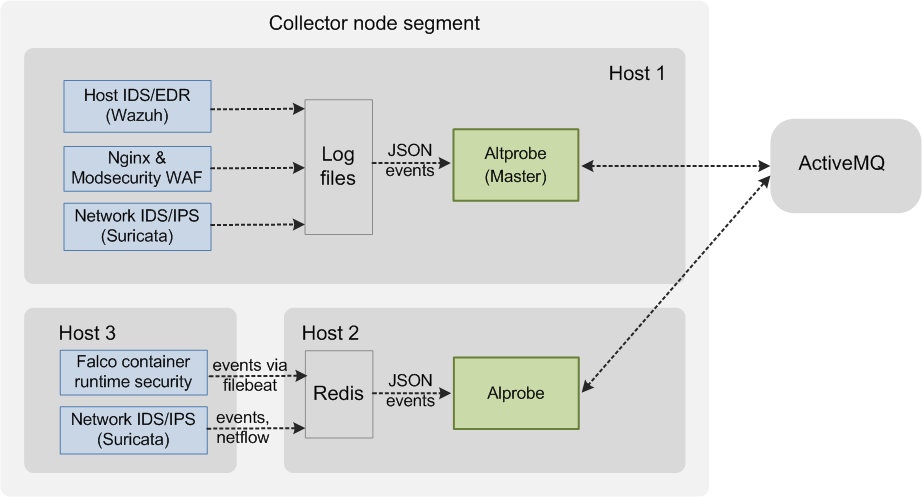
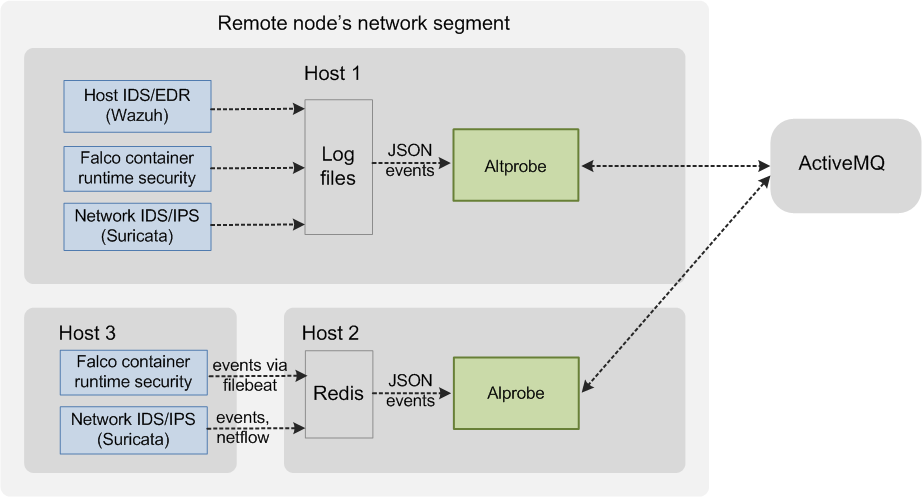
update after del several elements

diff --git a/doc/searchindex.js b/doc/searchindex.js
@@ -1,1 +1,1 @@
-Search.setIndex({docnames:["index","pages/architecture","pages/config_altprobe","pages/config_cnode","pages/install_altprobe","pages/install_cnode","pages/integration","pages/notices"],envversion:{"sphinx.domains.c":2,"sphinx.domains.changeset":1,"sphinx.domains.citation":1,"sphinx.domains.cpp":3,"sphinx.domains.index":1,"sphinx.domains.javascript":2,"sphinx.domains.math":2,"sphinx.domains.python":2,"sphinx.domains.rst":2,"sphinx.domains.std":1,sphinx:56},filenames:["index.rst","pages\\architecture.rst","pages\\config_altprobe.rst","pages\\config_cnode.rst","pages\\install_altprobe.rst","pages\\install_cnode.rst","pages\\integration.rst","pages\\notices.rst"],objects:{},objnames:{},objtypes:{},terms:{"00z":6,"02d2a1d8b353ba2bf59ca381f1836ebd":6,"09t00":6,"09t20":6,"10gb":4,"11z":6,"168":6,"1797":2,"19023":2,"192":6,"1a53f4c9c6d3":6,"200":6,"2000":7,"2004":7,"2005":7,"2006":7,"2020":6,"20gb":5,"2gb":4,"3532c56d":6,"3de":7,"443":5,"4848":5,"48be":6,"4gb":5,"55715":[2,3],"5715":[2,3],"61617":5,"8080":6,"8181":6,"8443":5,"8gb":5,"default":[3,5],"new":[2,3],"return":6,"true":[2,3],"var":[2,3,4],AES:7,AND:7,ARE:7,BUT:7,DNS:5,FOR:7,For:[1,2,3,5,6],IDS:[0,1,2,4,6],NOT:7,SUCH:7,THE:7,TLS:1,The:[1,2,3,5,7],Their:7,USE:7,WITH:7,_falco_log:2,_modsec_log:2,_suri_log:2,_wazuh_log:2,a2ad:6,about:6,abov:[2,3,7],access:[1,5],accord:6,action:[2,3,7],activemq:[1,3,5,7],adapt:6,add:6,added:[2,3],address:[5,6],admin:[3,5,6],advis:7,after:[4,5,6],agent:[1,2,3],aggreg:[2,3],agreement:5,alert:[0,2,3,4],alertflex:[1,2,3,4,5],alertlex:5,all:7,allianc:0,allow:[1,2],alon:1,also:[2,3,5],altpob:2,altprob:[0,1,3,5],altprobe_cr:2,altprobe_hid:2,altprobe_nid:2,altprobe_waf:2,amazon:1,amount:3,analysi:1,analysisd:2,ani:7,apach:7,api:6,appli:[2,3],applianc:[1,7],applic:[1,3,5],architectur:0,aris:7,associ:7,auth:6,author:7,avail:[1,2,6,7],base:1,basi:1,been:7,befor:[4,5],below:[1,2,3,6,7],between:[1,5],binari:[5,7],blacklist:[2,3],blob:7,blowfish:7,bounci:7,bouncycastl:7,broker:[1,4],browser:5,built:1,busi:7,can:[1,2,3,5],castl:7,cat:[2,3,4],categori:[2,3],caus:7,cento:[1,4,5],central:[0,2],certain:6,certif:5,chang:[2,3],charg:7,check:[3,4,5,6],checkbox:[5,6],chmod:[4,5],christian:7,cipher:7,claim:7,classif:[2,3],clone:[4,5],cloud:1,cluster:1,cnode:[0,4],code:[2,6,7],collect:1,collector:[0,2,3,4,5],com:[4,5,7],come:[2,3],command:0,commun:7,compani:1,compon:[1,5],comput:[1,4,5,7],condit:7,config:[0,2],configur:[0,1,5,6],confirm:5,connect:[1,7],consequenti:7,consist:[1,2,3],consol:[1,2,3,4,5,6,7],contain:1,content:0,continu:1,contract:7,contributor:7,control:[1,6,7],copi:[4,7],copyright:0,could:1,creat:7,crs:2,cryptographi:7,cti:1,ctrl:6,curl:6,cybersecur:0,damag:7,dashboard:4,data:[2,7],deal:7,dedic:[2,3],depart:7,dequeu:3,deriv:7,desc:[2,3],describ:[2,3],descript:[2,3],design:0,differ:[1,2,3],direct:7,directli:1,directori:[2,3,4],disclaim:7,disk:[4,5],distribut:[1,7],document:7,domain:1,download:[4,5],draw:1,dure:[2,3,5,6],dynam:[2,3],ea72:6,easili:1,ecosystem:0,edit:[6,7],edr:1,elast:7,elasticsearch:6,elasticstack:0,enabl:[0,5],end:[1,5],endors:7,enqueu:3,env:[3,4,5],env_exampl:4,env_loc:4,environ:1,equal:3,error:[3,4],etc:[2,3,4,5,6],eth:7,ethz:7,eula:5,even:7,event:[1,2,3,6,7],everi:[2,3],exampl:[1,2,3,4,5,6],example_env:5,exchang:1,execd:2,execut:[5,6],exemplari:7,expand:1,express:7,falco:2,falco_conf:2,falco_loc:2,falco_log:2,falco_redi:2,falco_rul:2,feder:7,feed:5,file:[1,2,3,4,5,6,7],fill:[4,5],filter:0,finish:5,firewal:1,fit:7,five:1,fix:6,flghost:[2,3],folder:[2,3],follow:7,form:[1,2,3,6,7],format:[2,3,6],free:7,from:[0,1,2,3,4,7],furnish:7,ganym:7,gelf:6,geolite2:7,get:[4,5,6],git:[4,5],github:[4,5,7],give:1,glassfish:1,good:7,grafana:0,grant:7,gray_list:[2,3],graylist:[2,3],graylog:0,grep:[3,4],hard:[4,5],has:6,hash:6,have:7,herebi:7,hid:[2,3],high:[0,5],holder:7,host:[1,2,4,5,6],hostnam:5,how:[3,4,5],howev:7,http:[4,5,6,7],hybrid:1,ident:6,identity_class:6,implement:[1,7],impli:7,in_period:[2,3],incident:7,includ:[1,2,7],indef:[2,3],index:6,indirect:7,inf:7,info:[4,6],inform:6,infrastructur:1,input:6,insid:1,instal:[0,1,7],install_ubuntu:[4,5],institut:7,integr:[0,1,5],interact:[5,6],interfac:6,interrupt:7,interv:6,ioc:5,isn:2,its:7,java:[1,7],job_nam:6,json:[2,3],kibana:6,kind:7,known:1,land:5,legion:7,less:[4,5],level0:[2,3],level1:[2,3],level2:[2,3],level:[0,2,3],liabil:7,liabl:7,lib:2,licens:[5,7],limit:7,linux:[1,5,6],list:7,load:[2,3],local:2,locat:[2,3],log:[1,2,3,4,6],logcollector:2,logic:1,login:[4,5],logstash:7,loss:7,low:0,machin:[1,4,5],mai:7,maild:2,main:[5,6],make:1,manag:[0,1,2,5,6,7],mani:1,master:[1,7],match:[2,3],materi:7,maxmind:7,md5:6,memori:[4,5],menu:5,merchant:7,merg:7,messag:[1,3],met:7,metric:0,metrics_path:6,micro:1,microservic:1,minimum:[1,4,5],misp:[5,7],model:1,modif:[2,3,7],modifi:[2,3,7],modsec:2,modsec_conf:2,modsec_loc:2,modsec_log:2,modsec_redi:2,modsec_rul:2,modsecur:2,modulesd:2,monitor:1,monitord:2,multi:1,must:7,mysql:[1,7],name:[6,7],namespac:1,need:[4,5],neglig:7,neither:7,netflow:0,network:1,new_categori:[2,3],new_descript:[2,3],new_ev:[2,3],new_sever:[2,3],new_sourc:[2,3],new_typ:[2,3],next:[2,3,5],nginx:[2,7],node:[0,2,3],noninfring:7,nor:7,note:6,notic:0,now:5,object:6,obtain:7,one:1,open:[0,1,2,3,4,5],opendistro:0,oper:[2,3],org:7,ossec:2,other:[1,7],otherwis:7,out:7,outsid:1,owasp:2,owner:7,packag:7,page:5,panel:[3,5],paragraph:5,paramet:[2,4,5,6],part:[2,3],parti:1,particular:7,password:[3,5,6],pattern:6,payara:[1,5,6,7],pem:4,perform:[5,6],permiss:7,permit:7,person:7,ping:6,place:1,plan:4,plattner:7,pleas:[4,5],polici:0,port:[5,6],portion:7,possibl:7,post:[0,4],premis:1,present:[4,6],prior:7,procedur:4,process:2,procur:7,product:7,profil:[2,3],profit:7,project:[1,4,5,6,7],prometheu:0,promot:7,protocol:1,provid:[5,7],pseudo:6,publish:7,purpos:7,python:6,queue:3,rais:6,reachabl:5,read:[1,2,5],readi:5,real:1,reboot:[4,5,6],receiv:[0,1],recommend:5,record:6,redi:1,redistribut:7,ref:5,releas:7,reload:3,remot:[2,5],reproduc:[2,3,7],request:6,requir:[0,3,6],reserv:7,respons:[2,3],rest:6,restart:[2,5],restrict:7,retain:7,right:7,root:[2,4],rule:[0,2],ruleset:2,run:2,runtim:1,scale:1,scheme:1,scienc:7,scope:5,script:7,section:[4,5],secur:[0,1],see:[1,4,5],segment:1,select:[4,5,6],sell:7,send:0,sensor:[0,1],separ:1,server:[1,5,6],servic:[5,6,7],set:[3,5,6],sever:[1,2,3,6],shall:7,shifter:0,should:[3,4,5],shown:7,singl:1,slightli:7,soar:1,softwar:[1,7],solut:[1,5],sourc:[1,7],special:7,specif:[4,5,7],sql:6,ssh:[5,7],ssl:[1,5],stack:1,stand:1,start:[2,3,4,5,6],state:7,static_config:6,statu:[2,4,6],stix:0,stop:[2,6],storag:1,store:[2,3],stream:1,strict:7,subject:7,sublicens:7,substanti:7,substitut:7,support:1,suri_conf:2,suri_loc:2,suri_log:2,suri_redi:2,suri_rul:2,suricata:[2,6],swiss:7,syscheckd:2,syslog:[3,4],system:[2,3,4,5,6],taken:7,target:6,tcp:5,technolog:[1,7],test:[4,5],than:[4,5],theori:7,thi:[4,5,7],third:1,threshold:[2,3],time:[1,6],togeth:1,tort:7,translat:6,transmit:6,troubleshoot:[0,5],txt:7,type:[5,6],ubuntu:[1,4,5],udp:[5,6],under:[1,4,5],usag:2,use:[1,4,5,7],used:[1,7],user:[3,5],usernam:6,using:[1,6],usr:2,version:[1,2,3,4,5],via:[2,3,5,6],view:6,virtual:[1,4,5],visibl:1,wai:7,want:6,warranti:7,wazuh:[2,3,7],wazuh_conf:2,wazuh_loc:2,wazuh_log:2,wazuh_redi:2,wazuh_rul:2,web:[1,2,3,5,6],well:1,what:7,where:[1,6],whether:7,which:[1,4],whitelist:[2,3],whom:7,without:7,work:1,worker:7,written:7,www:7,x_org_alertflex:6,xxxxxxx:6,xxxxxxxx:6,yaml:2,yml:6,you:[4,5,6],your:6,zurich:7},titles:["Welcome to Alertflex\u2019s documentation!","Architecture","Configuration of Altprobe","Configuration of Cnode","Installation of Altprobe","Installation of Cnode","Integrations","Copyright notices"],titleterms:{IDS:3,alert:6,alertflex:[0,6],allianc:6,altprob:[2,4],architectur:1,central:[1,3],cnode:[3,5],collector:1,command:2,config:3,configur:[2,3],copyright:7,cybersecur:6,design:1,document:0,ecosystem:6,elasticstack:6,enabl:6,filter:[2,3],from:6,grafana:6,graylog:6,high:1,instal:[4,5],integr:6,level:1,low:1,manag:3,metric:6,netflow:6,node:1,notic:7,open:6,opendistro:6,polici:[2,3],post:5,prometheu:6,receiv:6,requir:[4,5],rule:3,secur:2,send:6,sensor:2,shifter:6,stix:6,troubleshoot:3,welcom:0}})
+Search.setIndex({docnames:["index","pages/architecture","pages/config_altprobe","pages/config_cnode","pages/install_altprobe","pages/install_cnode","pages/integration","pages/notices"],envversion:{"sphinx.domains.c":2,"sphinx.domains.changeset":1,"sphinx.domains.citation":1,"sphinx.domains.cpp":3,"sphinx.domains.index":1,"sphinx.domains.javascript":2,"sphinx.domains.math":2,"sphinx.domains.python":2,"sphinx.domains.rst":2,"sphinx.domains.std":1,sphinx:56},filenames:["index.rst","pages\\architecture.rst","pages\\config_altprobe.rst","pages\\config_cnode.rst","pages\\install_altprobe.rst","pages\\install_cnode.rst","pages\\integration.rst","pages\\notices.rst"],objects:{},objnames:{},objtypes:{},terms:{"00z":6,"02d2a1d8b353ba2bf59ca381f1836ebd":6,"09t00":6,"09t20":6,"10gb":4,"11z":6,"168":6,"1797":2,"19023":2,"192":6,"1a53f4c9c6d3":6,"200":6,"2000":7,"2004":7,"2005":7,"2006":7,"2020":6,"20gb":5,"2gb":4,"3532c56d":6,"3de":7,"443":5,"4848":5,"48be":6,"4gb":5,"55715":[2,3],"5715":[2,3],"61617":5,"8080":6,"8181":6,"8443":5,"8gb":5,"default":[3,5],"new":[2,3],"return":6,"true":[2,3],"var":[2,3,4],AES:7,AND:7,ARE:7,BUT:7,DNS:5,FOR:7,For:[1,2,3,5,6],IDS:[0,1,2,4,6],NOT:7,SUCH:7,THE:7,TLS:1,The:[1,2,3,5,7],Their:7,USE:7,WITH:7,_falco_log:2,_suri_log:2,_wazuh_log:2,a2ad:6,about:6,abov:[2,3,7],access:[1,5],accord:6,action:[2,3,7],activemq:[1,3,5,7],adapt:6,add:6,added:[2,3],address:5,admin:[3,5,6],advis:7,after:[4,5,6],agent:[1,2,3],aggreg:[2,3],agreement:5,alert:[0,2,3,4],alertflex:[1,2,3,4,5],alertlex:5,all:7,allianc:0,allow:[1,2],alon:1,also:[2,3,5],altpob:2,altprob:[0,1,3,5],altprobe_cr:2,altprobe_hid:2,altprobe_nid:2,amazon:1,amount:3,analysi:1,analysisd:2,ani:7,apach:7,api:6,appli:[2,3],applianc:[1,7],applic:[1,3,5],architectur:0,aris:7,associ:7,auth:6,author:7,avail:[1,2,6,7],base:1,basi:1,been:7,befor:[4,5],below:[1,2,3,6,7],between:[1,5],binari:[5,7],blacklist:[2,3],blob:7,blowfish:7,bounci:7,bouncycastl:7,broker:[1,4],browser:5,built:1,busi:7,can:[1,2,3,5],castl:7,cat:[2,3,4],categori:[2,3],caus:7,cento:[1,4,5],central:[0,2],certain:6,certif:5,chang:[2,3],charg:7,check:[3,4,5,6],checkbox:[5,6],chmod:[4,5],christian:7,cipher:7,claim:7,classif:[2,3],clone:[4,5],cloud:1,cluster:1,cnode:[0,4],code:[2,6,7],collect:1,collector:[0,2,3,4,5],com:[4,5,7],come:[2,3],command:0,commun:7,compani:1,compon:[1,5],comput:[1,4,5,7],condit:7,config:[0,2],configur:[0,1,5,6],confirm:5,connect:[1,7],consequenti:7,consist:[1,2,3],consol:[1,2,3,4,5,6,7],contain:1,content:0,continu:1,contract:7,contributor:7,control:[1,6,7],copi:[4,7],copyright:0,could:1,creat:7,cryptographi:7,cti:1,ctrl:6,curl:6,cybersecur:0,damag:7,dashboard:4,data:[2,7],deal:7,dedic:[2,3],depart:7,dequeu:3,deriv:7,desc:[2,3],describ:[2,3],descript:[2,3],design:0,differ:[1,2,3],direct:7,directli:1,directori:[2,3,4],disclaim:7,disk:[4,5],distribut:[1,7],document:7,domain:1,download:[4,5],draw:1,dure:[2,3,5,6],dynam:[2,3],ea72:6,easili:1,ecosystem:0,edit:[6,7],edr:1,elast:7,elasticsearch:6,elasticstack:0,enabl:[0,5],end:[1,5],endors:7,enqueu:3,env:[3,4,5],env_exampl:4,env_loc:4,environ:1,equal:3,error:[3,4],etc:[2,3,4,5,6],eth:7,ethz:7,eula:5,even:7,event:[1,2,3,6,7],everi:[2,3],exampl:[1,2,3,4,5,6],example_env:5,exchang:1,execd:2,execut:[5,6],exemplari:7,expand:1,express:7,falco:2,falco_conf:2,falco_loc:2,falco_log:2,falco_redi:2,falco_rul:2,feder:7,feed:5,file:[1,2,3,4,5,6,7],fill:[4,5],filter:0,finish:5,fit:7,five:1,fix:6,flghost:[2,3],folder:[2,3],follow:7,form:[1,2,3,6,7],format:[2,3,6],free:7,from:[0,1,2,3,4,7],furnish:7,ganym:7,geolite2:7,get:[4,5,6],git:[4,5],github:[4,5,7],give:1,glassfish:1,good:7,grafana:0,grant:7,gray_list:[2,3],graylist:[2,3],grep:[3,4],hard:[4,5],has:6,hash:6,have:7,herebi:7,hid:[2,3],high:[0,5],holder:7,host:[1,2,4,5,6],hostnam:5,how:[3,4,5],howev:7,http:[4,5,6,7],hybrid:1,ident:6,identity_class:6,implement:[1,7],impli:7,in_period:[2,3],incident:7,includ:[1,2,7],indef:[2,3],index:6,indirect:7,inf:7,info:[4,6],inform:6,infrastructur:1,insid:1,instal:[0,1,7],install_ubuntu:[4,5],institut:7,integr:[0,1,5],interact:[5,6],interfac:6,interrupt:7,interv:6,ioc:5,isn:2,its:7,java:[1,7],job_nam:6,json:[2,3],kibana:6,kind:7,known:1,land:5,legion:7,less:[4,5],level0:[2,3],level1:[2,3],level2:[2,3],level:[0,2,3],liabil:7,liabl:7,lib:2,licens:[5,7],limit:7,linux:[1,5,6],list:7,load:[2,3],locat:[2,3],log:[1,2,3,4,6],logcollector:2,logic:1,login:[4,5],logstash:7,loss:7,low:0,machin:[1,4,5],mai:7,maild:2,main:[5,6],make:1,manag:[0,1,2,5,6,7],master:7,match:[2,3],materi:7,maxmind:7,md5:6,memori:[4,5],menu:5,merchant:7,merg:7,messag:[1,3],met:7,metric:0,metrics_path:6,micro:1,microservic:1,minimum:[1,4,5],misp:[5,7],model:1,modif:[2,3,7],modifi:[2,3,7],modulesd:2,monitor:1,monitord:2,multi:1,must:7,mysql:[1,7],name:[6,7],namespac:1,need:[4,5],neglig:7,neither:7,netflow:0,network:1,new_categori:[2,3],new_descript:[2,3],new_ev:[2,3],new_sever:[2,3],new_sourc:[2,3],new_typ:[2,3],next:[2,3,5],nginx:7,node:[0,2,3],noninfring:7,nor:7,note:6,notic:0,now:5,nta:1,object:6,obtain:7,one:1,open:[0,1,2,3,4,5],opendistro:0,oper:[2,3],org:7,ossec:2,other:[1,7],otherwis:7,out:7,outsid:1,owner:7,packag:7,page:5,panel:[3,5],paragraph:5,paramet:[2,4,5,6],part:[2,3],parti:1,particular:7,password:[3,5,6],pattern:6,payara:[1,5,6,7],pem:4,perform:[5,6],permiss:7,permit:7,person:7,ping:6,place:1,plan:4,plattner:7,pleas:[4,5],polici:0,port:[5,6],portion:7,possibl:7,post:[0,4],premis:1,present:[4,6],prior:7,procedur:4,process:2,procur:7,product:7,profil:[2,3],profit:7,project:[1,4,5,6,7],prometheu:0,promot:7,protocol:1,provid:[5,7],pseudo:6,publish:7,purpos:7,python:6,queue:3,rais:6,reachabl:5,read:[1,2,5],readi:5,real:1,reboot:[4,5,6],receiv:[0,1],recommend:5,record:6,redi:1,redistribut:7,ref:5,releas:7,reload:3,remot:[2,5],reproduc:[2,3,7],request:6,requir:[0,3,6],reserv:7,respons:[2,3],rest:6,restart:[2,5],restrict:7,retain:7,right:7,root:[2,4],rule:[0,2],ruleset:2,run:2,runtim:1,scale:1,scheme:1,scienc:7,scope:5,script:7,section:[4,5],secur:[0,1],see:[1,4,5],segment:1,select:[4,5,6],sell:7,send:0,sensor:[0,1],separ:1,server:[1,5,6],servic:[5,6,7],set:[3,5,6],sever:[1,2,3,6],shall:7,shifter:0,should:[3,4,5],shown:7,singl:1,slightli:7,soar:1,softwar:[1,7],solut:[1,5],sourc:[1,7],special:7,specif:[4,5,7],sql:6,ssh:[5,7],ssl:[1,5],stack:1,stand:1,start:[2,3,4,5,6],state:7,static_config:6,statu:[2,4,6],stix:0,stop:[2,6],storag:1,store:[2,3],stream:1,strict:7,subject:7,sublicens:7,substanti:7,substitut:7,support:1,suri_conf:2,suri_loc:2,suri_log:2,suri_redi:2,suri_rul:2,suricata:[2,6],swiss:7,syscheckd:2,syslog:[3,4],system:[2,3,4,5,6],taken:7,target:6,tcp:5,technolog:[1,7],test:[4,5],than:[4,5],theori:7,thi:[4,5,7],third:1,threshold:[2,3],time:[1,6],togeth:1,tort:7,translat:6,transmit:6,troubleshoot:[0,5],txt:7,type:[5,6],ubuntu:[1,4,5],udp:5,under:[1,4,5],usag:2,use:[1,4,5,7],used:[1,7],user:[3,5],usernam:6,using:[1,6],version:[1,2,3,4,5],via:[2,3,5,6],view:6,virtual:[1,4,5],visibl:1,wai:7,want:6,warranti:7,wazuh:[2,3,7],wazuh_conf:2,wazuh_loc:2,wazuh_log:2,wazuh_redi:2,wazuh_rul:2,web:[2,3,5,6],well:1,what:7,where:[1,6],whether:7,which:[1,4],whitelist:[2,3],whom:7,without:7,work:1,worker:7,written:7,www:7,x_org_alertflex:6,xxxxxxx:6,xxxxxxxx:6,yaml:2,yml:6,you:[4,5,6],your:6,zurich:7},titles:["Welcome to Alertflex\u2019s documentation!","Architecture","Configuration of Altprobe","Configuration of Cnode","Installation of Altprobe","Installation of Cnode","Integrations","Copyright notices"],titleterms:{IDS:3,alert:6,alertflex:[0,6],allianc:6,altprob:[2,4],architectur:1,central:[1,3],cnode:[3,5],collector:1,command:2,config:3,configur:[2,3],copyright:7,cybersecur:6,design:1,document:0,ecosystem:6,elasticstack:6,enabl:6,filter:[2,3],from:6,grafana:6,high:1,instal:[4,5],integr:6,level:1,low:1,manag:3,metric:6,netflow:6,node:1,notic:7,open:6,opendistro:6,polici:[2,3],post:5,prometheu:6,receiv:6,requir:[4,5],rule:3,secur:2,send:6,sensor:2,shifter:6,stix:6,troubleshoot:3,welcom:0}})

diff --git a/solution.html b/solution.html
@@ -92,7 +92,7 @@
 					<li class="list-group-item h2-emul"><p><i style="color: #68a1b2;" class="fa fa-check-circle-o"></i> The Collector immediately sends high priority events (alerts) to the central node.</p></li>
 					<li class="list-group-item h2-emul"><p><i style="color: #68a1b2;" class="fa fa-check-circle-o"></i> For implementing the “Anti-flooding” algorithm which prevents large bursts of events on the central node side, the Collector sends to Controller large size info (NetFlow, statistics, reports) inside of pre-accumulated and compressed data blocks.</p></li>
 					<li class="list-group-item h2-emul"><p><i style="color: #68a1b2;" class="fa fa-check-circle-o"></i> The Controller saves alerts in Alertflex database (MySQL).</p></li>
-					<li class="list-group-item h2-emul"><p><i style="color: #68a1b2;" class="fa fa-check-circle-o"></i> The Controller can redirect alerts and netflow to Graylog, ElasticStack, OpenDistro log management platforms.</p></li> 
+					<li class="list-group-item h2-emul"><p><i style="color: #68a1b2;" class="fa fa-check-circle-o"></i> The Controller can redirect alerts and netflow to ElasticStack, OpenDistro log management platforms.</p></li> 
 					<li class="list-group-item h2-emul"><p><i style="color: #68a1b2;" class="fa fa-check-circle-o"></i> Provides a REST API and STIX-shifter interface for access to alerts.</p></li> 
 					<li class="list-group-item h2-emul"><p><i style="color: #68a1b2;" class="fa fa-check-circle-o"></i> The web management console provides various reports and web-forms for alerts search.</p></li> 
 				</ul>
@@ -124,7 +124,7 @@
 				<ul class="list-group list-group-flush text-left">
 					<li class="list-group-item h2-emul"><p><i style="color: #68a1b2;" class="fa fa-check-circle-o"></i> The Alertlex performs reputation checks for IP addresses, DNS records, MD5 and SHA1 hashes of files. Creates an alert, in case of suspicious data has been found.</p></li>
 					<li class="list-group-item h2-emul"><p><i style="color: #68a1b2;" class="fa fa-check-circle-o"></i> Performs analysis of different reports (<strong>OpenSCAP, Wazuh SCA, Docker Bench for Security, Trivy</strong>, etc). Generates alert if a <strong>new vulnerability, misconfigurations, processes, packages or user</strong> has been found.</p></li>
-					<li class="list-group-item h2-emul"><p><i style="color: #68a1b2;" class="fa fa-check-circle-o"></i> For advanced WEB analytics can be used Grafana that connected with Alertflex Database (MySQL).</p></li>
+					<li class="list-group-item h2-emul"><p><i style="color: #68a1b2;" class="fa fa-check-circle-o"></i> For advanced WEB analytics can be used Grafana that connected with Alertflex Database (MySQL) or Kibana.</p></li>
 				</ul>
 			</div>
 		</div>
@@ -153,7 +153,6 @@
 				</div>
 				<ul class="list-group list-group-flush text-left">
 					<li class="list-group-item h2-emul"><p><i style="color: #68a1b2;" class="fa fa-check-circle-o"></i> The Alertflex components recognize the Wazuh HIDS agent's namespace inside of the Suricata NIDS alerts and Netflow events. It allows you to perform a correlation of security events for Network and Endpoints.</p></li>
-					<li class="list-group-item h2-emul"><p><i style="color: #68a1b2;" class="fa fa-check-circle-o"></i> Additionally, Alertflex can recognize of fields process id and process name inside events of PacketBeat (ElasticStack). Matching these events with alerts from Suricata IDS gives you the possibility to trace of the suspicious network session from NIDS to an application/process on the host.</li>
 				</ul>
 			</div>
 		</div>
@@ -176,7 +175,7 @@
 							</a>
 						</div>
 						<div class="col-sm-10 article">    
-							<p>Alertflex works as a security orchestrator for several third-party applications/cybersecurity platforms. The system is able to integrate into one solution the next open source products: OWASP ZAP, Nessus Essentials, Nmap, MISP, Cuckoo Sandbox, Graylog, ElasticStack, and more. Most of the automation operations can be implemented as a Playbook, a set of jobs that run by Alertflex according to the Flow ID of the job. Every Playbook may be run automatically through a time interval or as a response to the security event/alert.</p>
+							<p>Alertflex works as a security orchestrator for several third-party applications/cybersecurity platforms. The system is able to integrate into one solution the next open source products: OWASP ZAP, Nessus Essentials, Nmap, MISP, Cuckoo Sandbox, ElasticStack, and more. Most of the automation operations can be implemented as a Playbook, a set of jobs that run by Alertflex according to the Flow ID of the job. Every Playbook may be run automatically through a time interval or as a response to the security event/alert.</p>
 						</div>
 					</div>
 				</div>

diff --git a/doc/pages/architecture.html b/doc/pages/architecture.html
@@ -175,7 +175,7 @@
 <h2>High-level design<a class="headerlink" href="#high-level-design" title="Permalink to this headline">¶</a></h2>
 <p><code class="docutils literal notranslate"><span class="pre">Alertflex</span> <span class="pre">project</span></code> is a continuous security monitoring solution designed for use in Hybrid Clouds (on-premises and cloud-based IT infrastructure).
 By monitoring events near real-time from well-known open-source security applications, Alertflex gives companies end-to-end security visibility,
-implements EDR, CTI and SOAR technology stack.</p>
+implements CTI, EDR, NTA and SOAR technology stack.</p>
 <img alt="../_images/hld-arch.png" src="../_images/hld-arch.png" />
 <div class="line-block">
 <div class="line"><br /></div>
@@ -186,7 +186,7 @@ implements EDR, CTI and SOAR technology stack.</p>
 <p>The Alertflex is based on five levels of security event management technology: Collection, Streaming, Analysis, Storage, Access.
 For working in a distributed environment of Hybrid Clouds, the solution consists of separate software components Collector, Controller, Management Console.
 Collector (Altprobe) is placed in the network domain where security sensors are installed (Container Runtime Security, Host IDS, File Integrity Monitor,
-Network IDS, Web Application Firewall). Together with security sensors, Collector logically forms the Collector node.
+Network IDS). Together with security sensors, Collector logically forms the Collector node.
 Alertflex Controller and Management Console make up the central node. The central node could be placed inside of monitored IT infrastructure or outside.
 To exchange messages between the Collector node and the Central node, the ActiveMQ or Amazon MQ message broker is used.
 The security of connections between nodes is implemented on the basis of support for SSL / TLS protocols built into ActiveMQ.
@@ -200,7 +200,7 @@ The solution can be easily scaled from the stand-alone appliance configuration t
 <h2>Central node<a class="headerlink" href="#central-node" title="Permalink to this headline">¶</a></h2>
 <p>The minimum configuration of the central node includes Alertflex Java EE applications (Controller, Management console)
 which work under Payara/GlassFish AS and third-party open-source components ActiveMQ, Redis, MySQL. It can be installed on the stand-alone server
-or virtual machine with Linux Centos 7 or Ubuntu 16.04 version. The high availability of the central node is based on cluster configurations
+or virtual machine with Linux Centos 7 or Ubuntu 18.04 version. The high availability of the central node is based on cluster configurations
 of third-party components and microservices architecture Alertflex applications. Below a drawing of such a High availability scheme:</p>
 <img alt="../_images/central-node.png" src="../_images/central-node.png" />
 <div class="line-block">
@@ -210,9 +210,9 @@ of third-party components and microservices architecture Alertflex applications.
 <div class="section" id="collector-node">
 <h2>Collector node<a class="headerlink" href="#collector-node" title="Permalink to this headline">¶</a></h2>
 <p>Collector node is based on the micro-segmentation model. It can include several alertflex collectors (Altprobe) and security sensors/IDS.
-The minimum configuration of such a node includes one installed collector on a computer/virtual machine (Master) in the node segment.
+The minimum configuration of such a node includes one installed collector on a computer/virtual machine in the node segment.
 The configuration can be expanded by installation several Alertflex collectors on different computers/VM inside of the node segment.
-It allows connecting many security sensors inside one network segment controlled by the node and using a single network and agents namespace.
+It allows connecting several security sensors inside one network segment controlled by the node and using a single network and agents namespace.
 Alertflex collector can directly read security events from IDS logs or use Redis server for receiving events from IDS which are installed on other hosts.
 See an example of such configuration below:</p>
 <img alt="../_images/collector-node.png" src="../_images/collector-node.png" />

diff --git a/doc/pages/integration.html b/doc/pages/integration.html
@@ -95,7 +95,6 @@
 <li class="toctree-l1"><a class="reference internal" href="config_altprobe.html">Configuration of Altprobe</a></li>
 <li class="toctree-l1 current"><a class="current reference internal" href="#">Integrations</a><ul>
 <li class="toctree-l2"><a class="reference internal" href="#open-cybersecurity-alliance-ecosystem-stix-shifter">Open Cybersecurity Alliance ecosystem (STIX-shifter)</a></li>
-<li class="toctree-l2"><a class="reference internal" href="#send-alerts-and-netflow-to-graylog">Send alerts and Netflow to Graylog</a></li>
 <li class="toctree-l2"><a class="reference internal" href="#send-alerts-and-netflow-to-elasticstack-opendistro">Send alerts and Netflow to ElasticStack/OpenDistro</a></li>
 <li class="toctree-l2"><a class="reference internal" href="#enable-receive-metrics-from-alertflex-in-prometheus-grafana">Enable receive metrics from Alertflex in Prometheus/Grafana</a></li>
 </ul>
@@ -208,25 +207,6 @@
 <span class="s2">&quot;[x_org_alertflex:type = &#39;HOST&#39;] START t&#39;2020-06-09T00:00:00Z&#39; STOP t&#39;2020-06-09T20:11:11Z&#39;&quot;</span>
 </pre></div>
 </div>
-<div class="line-block">
-<div class="line"><br /></div>
-</div>
-</div>
-<div class="section" id="send-alerts-and-netflow-to-graylog">
-<h2>Send alerts and Netflow to Graylog<a class="headerlink" href="#send-alerts-and-netflow-to-graylog" title="Permalink to this headline">¶</a></h2>
-<ul class="simple">
-<li><p>In Alertflex console select “Settings/Integrations/Log Management” and add IP/host address and port of Graylog server.</p></li>
-</ul>
-<img alt="../_images/graylog-config.png" src="../_images/graylog-config.png" />
-<ul class="simple">
-<li><p>Select checkbox <code class="docutils literal notranslate"><span class="pre">send</span> <span class="pre">Netflow</span></code> in “Settings/Project/Parameters” if you want send Netflow records from Suricata</p></li>
-</ul>
-<img alt="../_images/project-netflow.png" src="../_images/project-netflow.png" />
-<ul class="simple">
-<li><p>In Graylog console select “System/Inputs” and add <code class="docutils literal notranslate"><span class="pre">GELF</span> <span class="pre">UDP</span></code> input</p></li>
-</ul>
-<img alt="../_images/graylog-input.png" src="../_images/graylog-input.png" />
-<p>Note: Performs reboot of linux system or payara server is required after these settings</p>
 <div class="line-block">
 <div class="line"><br /></div>
 </div>

diff --git a/index.html b/index.html
@@ -379,7 +379,7 @@
 				</div>
 				
 				<div class="col-sm-4">
-					<img class="card-img-top" src="img/logos/hybrida.jpg" alt="integration with ">
+					<img class="card-img-top" src="img/logos/hybrida.jpg" alt="integration with Falcon">
 					<div class="card-body">
 						<h2 class="card-title" style="margin-top: 10.5px; margin-bottom: 10.5px; font-size: 16px; color: #fff;">Falcon Sandbox</h2>
 					</div>
@@ -395,21 +395,7 @@
 				<div class="col-sm-4">
 					<img class="card-img-top" src="img/logos/oca.jpg" alt="integration with STIX-shifter">
 					<div class="card-body">
-						<h2 class="card-title" style="margin-top: 10.5px; margin-bottom: 10.5px; font-size: 16px; color: #fff;">STIX-shifter</h2>
-					</div>
-				</div>
-				
-				<div class="col-sm-4">
-					<img class="card-img-top" src="img/logos/prometheus.jpg" alt="integration with Prometheus">
-					<div class="card-body">
-						<h2 class="card-title" style="margin-top: 10.5px; margin-bottom: 10.5px; font-size: 16px; color: #fff;">Prometheus</h2>
-					</div>
-				</div>
-				
-				<div class="col-sm-4">
-					<img class="card-img-top" src="img/logos/grafana.jpg" alt="integration with Grafana">
-					<div class="card-body">
-						<h2 class="card-title" style="margin-top: 10.5px; margin-bottom: 10.5px; font-size: 16px; color: #fff;">Grafana</h2>
+						<h2 class="card-title" style="margin-top: 10.5px; margin-bottom: 10.5px; font-size: 16px; color: #fff;">STIX-Shifter</h2>
 					</div>
 				</div>
 				
@@ -423,14 +409,7 @@
 				<div class="col-sm-4">
 					<img class="card-img-top" src="img/logos/elastic.jpg" alt="integration with ElasticStack">
 					<div class="card-body">
-						<h2 class="card-title" style="margin-top: 10.5px; margin-bottom: 10.5px; font-size: 16px; color: #fff;">ElasticStack</h2>
-					</div>
-				</div>
-				
-				<div class="col-sm-4">
-					<img class="card-img-top" src="img/logos/packetbeat.jpg" alt="integration with Packetbeat">
-					<div class="card-body">
-						<h2 class="card-title" style="margin-top: 10.5px; margin-bottom: 10.5px; font-size: 16px; color: #fff;">Filebeat (Syslog,NetFlow), Packetbeat</h2>
+						<h2 class="card-title" style="margin-top: 10.5px; margin-bottom: 10.5px; font-size: 16px; color: #fff;">Open Distro for Elasticsearch</h2>
 					</div>
 				</div>
 				

diff --git a/doc/pages/config_altprobe.html b/doc/pages/config_altprobe.html
@@ -179,12 +179,6 @@
 <span class="n">falco_rules</span><span class="p">:</span> <span class="s2">&quot;/etc/falco/rules.d/&quot;</span>
 <span class="n">falco_local</span><span class="p">:</span> <span class="s2">&quot;/etc/falco/rules.available/&quot;</span>
 
-<span class="n">modsec_log</span><span class="p">:</span> <span class="s2">&quot;_modsec_log&quot;</span>
-<span class="n">modsec_redis</span><span class="p">:</span> <span class="s2">&quot;altprobe_waf&quot;</span>
-<span class="n">modsec_conf</span><span class="p">:</span> <span class="s2">&quot;/etc/nginx/modsec/&quot;</span>
-<span class="n">modsec_rules</span><span class="p">:</span> <span class="s2">&quot;/usr/local/owasp-modsecurity-crs-3.0.2/&quot;</span>
-<span class="n">modsec_local</span><span class="p">:</span> <span class="s2">&quot;/etc/nginx/modsec/rules/&quot;</span>
-
 <span class="n">suri_log</span><span class="p">:</span> <span class="s2">&quot;_suri_log&quot;</span>
 <span class="n">suri_redis</span><span class="p">:</span> <span class="s2">&quot;altprobe_nids&quot;</span>
 <span class="n">suri_conf</span><span class="p">:</span> <span class="s2">&quot;/etc/suricata/&quot;</span>

diff --git a/doc/index.html b/doc/index.html
@@ -197,7 +197,6 @@
 </li>
 <li class="toctree-l1"><a class="reference internal" href="pages/integration.html">Integrations</a><ul>
 <li class="toctree-l2"><a class="reference internal" href="pages/integration.html#open-cybersecurity-alliance-ecosystem-stix-shifter">Open Cybersecurity Alliance ecosystem (STIX-shifter)</a></li>
-<li class="toctree-l2"><a class="reference internal" href="pages/integration.html#send-alerts-and-netflow-to-graylog">Send alerts and Netflow to Graylog</a></li>
 <li class="toctree-l2"><a class="reference internal" href="pages/integration.html#send-alerts-and-netflow-to-elasticstack-opendistro">Send alerts and Netflow to ElasticStack/OpenDistro</a></li>
 <li class="toctree-l2"><a class="reference internal" href="pages/integration.html#enable-receive-metrics-from-alertflex-in-prometheus-grafana">Enable receive metrics from Alertflex in Prometheus/Grafana</a></li>
 </ul>
